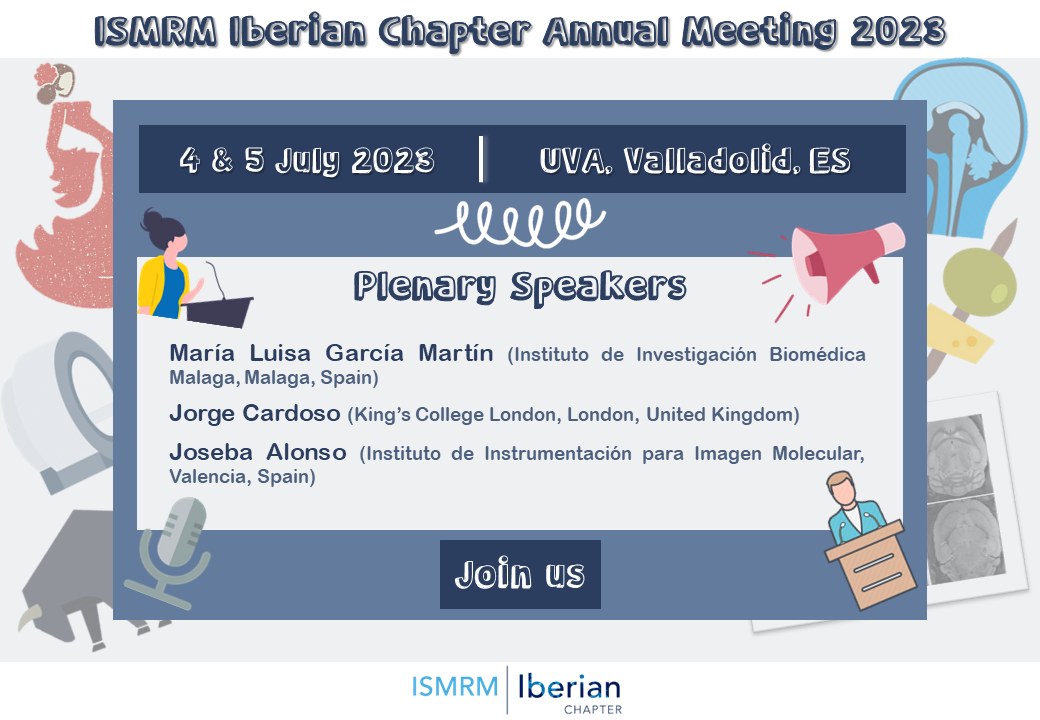
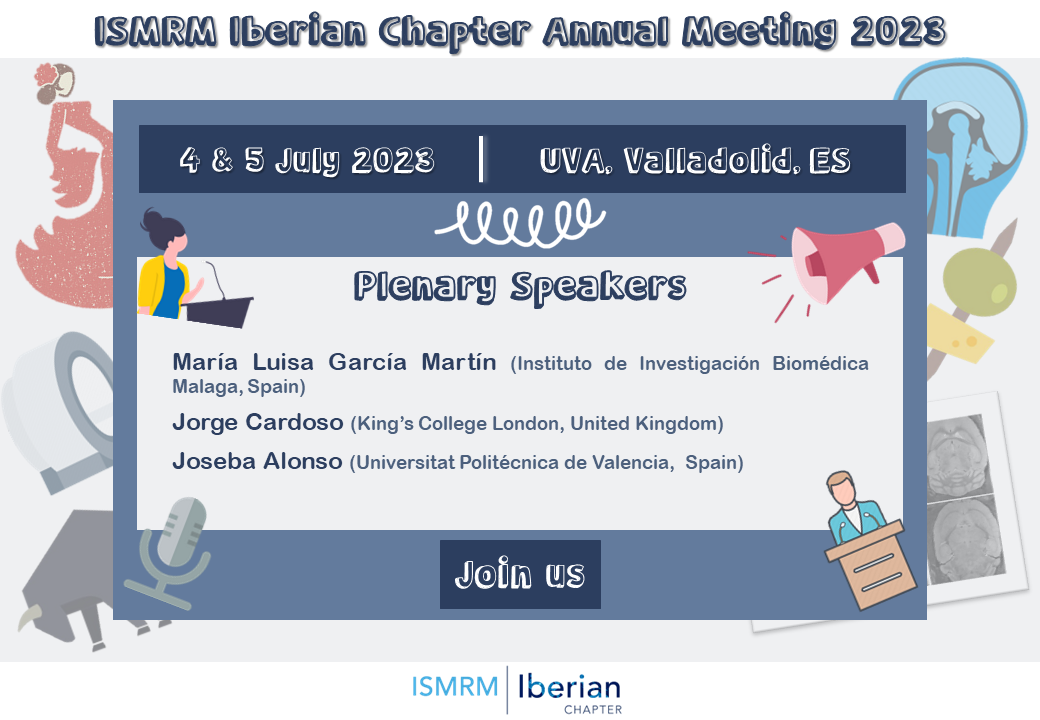
Rev. 16

Changed region(s): [[0.1538, 0.4583, 0.8308, 0.6722]]

diff --git a/_posts/2022-04-22-3rdAnnualMeeting.md b/_posts/2022-04-22-3rdAnnualMeeting.md
@@ -14,11 +14,19 @@ The ISMRM Iberian Chapter is blooming maturely as a shared environment between s
 
 On behalf of the ISMRM Iberian Chapter Committee, we invite you to participate in the **ISMRM Iberian Chapter Annual Meeting 2023**, which will be held from **July 3rd to 5th in Valladolid**, one of the most beautiful Spanish cities of Renaissance architecture.<br><br>
 
-The meeting will be an opportunity for academic and social interaction, and we will be honored to have the following distinguished speakers: 
-   - **Dr María Luisa García-Martín** (Instituto de Investigación Biomédica de Málaga, Spain),<br>
+The meeting will be an opportunity for academic and social interaction, and we will be honored to have the following distinguished speakers.
+
+<img src="{{ site.baseurl }}/assets/images/IberianISMRM2023_plenary.png" width="110%"/>
+
+<img src="{{ site.baseurl }}/assets/images/IberianISMRM2023_round_table.png" width="110%"/>
+
+
+<!--   - **Dr María Luisa García-Martín** (Instituto de Investigación Biomédica de Málaga, Spain),<br>
    - **Dr Jorge Cardoso** (King's College London, United Kingdom),<br>
    - **Dr Joseba Alonso** (Universitat Politècnica de València, Spain),<br><br>
-   - Roundtable: **Dr. Borja Ibáñez**, **David Filgueiras** and **Dr. Javier Sánchez** (Centro Nacional de Investigaciones Cardiovasculares, Madrid, Spain).<br>
+   - Roundtable: **Dr. Borja Ibáñez**, **David Filgueiras** and **Dr. Javier Sánchez** (Centro Nacional de Investigaciones Cardiovasculares, Madrid, Spain).<br>-->
+   
+   
 
 The meeting include oral and poster sessions where Chapter members will have the opportunity to present their work. As in the previous year, there will be awards for the best oral and poster presentations. The conference programme will also include time to explore this wonderful city and to network at our social events. <br><br>
 
